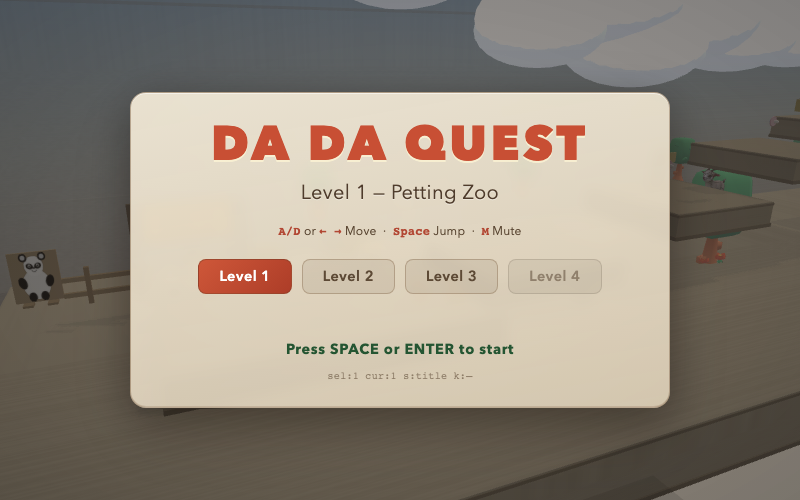
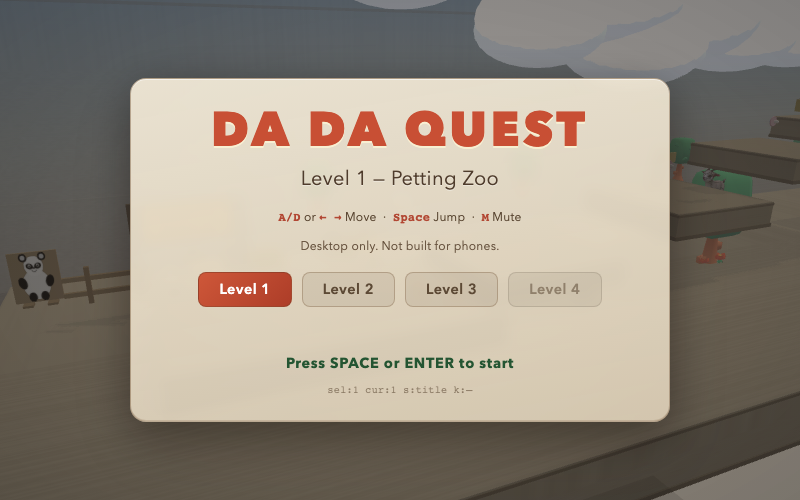
fix: simplify level 2 final stair and add desktop menu note

diff --git a/src/web3d/world/buildWorld2.js b/src/web3d/world/buildWorld2.js
@@ -1040,7 +1040,7 @@ function createPianoVisual(scene, name, { x, y, z = 0, shadowGen }) {
 // ── Main Level 2 world builder ────────────────────────────────────
 
 export function buildWorld2(scene, options = {}) {
-  const { animateGoal = true } = options;
+  const { animateGoal = true, debugMode = false } = options;
   // Scene
   scene.clearColor = new BABYLON.Color4(0.84, 0.86, 0.90, 1.0);
   scene.ambientColor = new BABYLON.Color3(0.34, 0.33, 0.37);
@@ -1077,6 +1077,43 @@ export function buildWorld2(scene, options = {}) {
   shadowGen.bias = 0.0006;
   shadowGen.normalBias = 0.02;
   shadowGen.setDarkness(0.36);
+
+  function createDebugWireBox(name, { x, y, z, w, h, d, color }) {
+    const mesh = BABYLON.MeshBuilder.CreateBox(name, {
+      width: w,
+      height: h,
+      depth: d,
+    }, scene);
+    mesh.position.set(x, y, z);
+    const mat = new BABYLON.StandardMaterial(`${name}_mat`, scene);
+    mat.wireframe = true;
+    mat.disableLighting = true;
+    mat.emissiveColor = color;
+    mat.alpha = 0.88;
+    mat.backFaceCulling = false;
+    mesh.material = mat;
+    tagLevel2Decor(mesh);
+    setRenderingGroup(mesh, 4);
+    return mesh;
+  }
+
+  function createDebugPickupSphere(name, { x, y, z, radius, color }) {
+    const mesh = BABYLON.MeshBuilder.CreateSphere(name, {
+      diameter: radius * 2,
+      segments: 14,
+    }, scene);
+    mesh.position.set(x, y, z);
+    const mat = new BABYLON.StandardMaterial(`${name}_mat`, scene);
+    mat.wireframe = true;
+    mat.disableLighting = true;
+    mat.emissiveColor = color;
+    mat.alpha = 0.82;
+    mat.backFaceCulling = false;
+    mesh.material = mat;
+    tagLevel2Decor(mesh);
+    setRenderingGroup(mesh, 4);
+    return mesh;
+  }
 
   // === GROUND ===
   const groundDef = LEVEL2.ground;
@@ -1180,18 +1217,30 @@ export function buildWorld2(scene, options = {}) {
 
   // === COINS ===
   const coins = [];
+  let lastCrumbleCoin = null;
+  const lastCrumbleDef = (LEVEL2.crumbles || [])[LEVEL2.crumbles.length - 1] || null;
   for (let i = 0; i < LEVEL2.coins.length; i++) {
     const c = LEVEL2.coins[i];
     const node = createCoin(scene, `L2_coin2_${i}`, { x: c.x, y: c.y, z: LANE_Z });
     node.position.z = LANE_Z;
     prefixLevel2Gameplay(node);
     setRenderingGroup(node, 3);
-    coins.push({
+    const radius = lastCrumbleDef && Math.abs(c.x - lastCrumbleDef.x) <= 0.45 && c.y < 9.4
+      ? 0.56
+      : 0.45;
+    const coinState = {
+      index: i,
       position: new BABYLON.Vector3(c.x, c.y, LANE_Z),
-      radius: 0.45,
+      radius,
       node,
       collected: false,
+    };
+    coins.push({
+      ...coinState,
     });
+    if (lastCrumbleDef && Math.abs(c.x - lastCrumbleDef.x) <= 0.45 && c.y < 9.4) {
+      lastCrumbleCoin = coinState;
+    }
   }
 
   // === HAZARDS ===
@@ -1276,6 +1325,7 @@ export function buildWorld2(scene, options = {}) {
 
   // === CRUMBLES ===
   const crumbles = [];
+  let lastCrumbleState = null;
   for (let i = 0; i < (LEVEL2.crumbles || []).length; i++) {
     const cr = LEVEL2.crumbles[i];
     const { root: crRoot, colliderMesh: crCol } = createCrumblePlatform(scene, `L2_${cr.name}`, {
@@ -1293,7 +1343,8 @@ export function buildWorld2(scene, options = {}) {
       y: cr.y - 1.22,
       z: -1.12,
     });
-    crumbles.push({
+    const crumbleState = {
+      name: cr.name,
       root: crRoot,
       colliderMesh: crCol,
       x: cr.x, y: cr.y, z: LANE_Z,
@@ -1301,7 +1352,42 @@ export function buildWorld2(scene, options = {}) {
       portalRoot,
       portalReset: true,
       portalResetY: cr.y - 0.72,
+    };
+    crumbles.push(crumbleState);
+    if (i === (LEVEL2.crumbles.length - 1)) {
+      lastCrumbleState = crumbleState;
+    }
+  }
+
+  if (debugMode && lastCrumbleState) {
+    const topY = lastCrumbleState.y + (lastCrumbleState.h * 0.5);
+    createDebugWireBox('L2_debug_lastCrumbleCollider', {
+      x: lastCrumbleState.x,
+      y: lastCrumbleState.y,
+      z: LANE_Z,
+      w: lastCrumbleState.w,
+      h: LEVEL2.crumbles[LEVEL2.crumbles.length - 1].h,
+      d: LEVEL2.crumbles[LEVEL2.crumbles.length - 1].d,
+      color: new BABYLON.Color3(0.20, 0.95, 1.0),
     });
+    createDebugWireBox('L2_debug_lastCrumbleTrigger', {
+      x: lastCrumbleState.x,
+      y: topY + 0.025,
+      z: LANE_Z,
+      w: lastCrumbleState.w,
+      h: 0.12,
+      d: LEVEL2.crumbles[LEVEL2.crumbles.length - 1].d,
+      color: new BABYLON.Color3(1.0, 0.45, 0.95),
+    });
+    if (lastCrumbleCoin) {
+      createDebugPickupSphere('L2_debug_lastCrumbleCoinRadius', {
+        x: lastCrumbleCoin.position.x,
+        y: lastCrumbleCoin.position.y,
+        z: lastCrumbleCoin.position.z,
+        radius: lastCrumbleCoin.radius,
+        color: new BABYLON.Color3(1.0, 0.85, 0.25),
+      });
+    }
   }
 
   // === DECORATIVE BACKDROP / ROOM ZONES ===
@@ -1988,6 +2074,37 @@ export function buildWorld2(scene, options = {}) {
           z: platform.colliderMesh.position.z,
           visible: platform.visible,
         })),
+      };
+    },
+    getLastCrumbleState() {
+      if (!lastCrumbleState) return null;
+      const ext = lastCrumbleState.colliderMesh.getBoundingInfo().boundingBox.extendSize;
+      const topY = lastCrumbleState.colliderMesh.position.y + ext.y;
+      return {
+        name: lastCrumbleState.name,
+        x: lastCrumbleState.colliderMesh.position.x,
+        y: lastCrumbleState.colliderMesh.position.y,
+        z: lastCrumbleState.colliderMesh.position.z,
+        topY,
+        bounds: {
+          minX: lastCrumbleState.colliderMesh.position.x - ext.x,
+          maxX: lastCrumbleState.colliderMesh.position.x + ext.x,
+          minY: lastCrumbleState.colliderMesh.position.y - ext.y,
+          maxY: lastCrumbleState.colliderMesh.position.y + ext.y,
+          minZ: lastCrumbleState.colliderMesh.position.z - ext.z,
+          maxZ: lastCrumbleState.colliderMesh.position.z + ext.z,
+        },
+        triggerBand: {
+          minY: topY - 0.05,
+          maxY: topY + 0.07,
+        },
+        coin: lastCrumbleCoin ? {
+          index: lastCrumbleCoin.index,
+          x: lastCrumbleCoin.position.x,
+          y: lastCrumbleCoin.position.y,
+          z: lastCrumbleCoin.position.z,
+          radius: lastCrumbleCoin.radius,
+        } : null,
       };
     },
     // Expose anchor nodes for GLB loading in boot.js

diff --git a/src/web3d/world/level2.js b/src/web3d/world/level2.js
@@ -63,8 +63,9 @@ const BASE_LEVEL2 = {
     { name: 'platKitchen',  x:   6.5, y: 0.40,  w:  7.0, h: 0.80, d: 4.0 },  // surface 0.80
     { name: 'platPiano',    x:  11.0, y: 3.00,  w:  3.2, h: 0.70, d: 4.0 },  // surface 3.35
     { name: 'platLanding',  x:  18.0, y: 4.00,  w:  5.0, h: 0.80, d: 4.0 },  // surface 4.40  (CP2)
-    // Section C — Loft stairs (longer + steeper; every step is crumble)
-    { name: 'platLoft',     x:  35.0, y: 9.10,  w:  4.4, h: 0.80, d: 4.2 },  // surface 9.50
+    // Section C — Loft stairs (final stair is solid to stabilize the loft landing)
+    { name: 'platStairFinal', x: 33.4, y: 8.45, w: 2.0, h: 0.65, d: 4.0 },
+    { name: 'platLoft',     x:  36.3, y: 9.10,  w:  3.6, h: 0.80, d: 4.2 },  // surface 9.50; shifted to stop overlapping the final crumble
     { name: 'platRoof',     x:  38.8, y: 9.75,  w:  6.2, h: 0.80, d: 5.0 },  // surface 10.15 → goal
   ],
 
@@ -126,11 +127,6 @@ const BASE_LEVEL2 = {
       x: 30.9, y: 7.75, z: L,
       w: 2.0, h: 0.65, d: 4.0,
     },
-    {
-      name: 'crumbleStair6',
-      x: 33.4, y: 8.45, z: L,
-      w: 2.0, h: 0.65, d: 4.0,
-    },
   ],
 
   coins: [
@@ -144,7 +140,7 @@ const BASE_LEVEL2 = {
     { x:  18.0, y: 5.20, z: L },
     { x:  16.3, y: 1.34, z: L },
     { x:  18.9, y: 2.48, z: L },
-    { x:  33.4, y: 9.10, z: L },
+    { x:  35.25, y: 9.86, z: L },
     { x:  36.2, y: 10.20, z: L },
   ],
 

diff --git a/src/web3d/ui/ui.js b/src/web3d/ui/ui.js
@@ -80,6 +80,13 @@ const CSS = `
   font-family: monospace;
   font-weight: 700;
 }
+.dada-device-note {
+  margin-top: 10px;
+  font-size: 12px;
+  line-height: 1.4;
+  color: #6a5642;
+  letter-spacing: 0.02em;
+}
 .dada-loading-wrap {
   margin-top: 16px;
   display: none;
@@ -665,6 +672,7 @@ export function createUI(uiRoot, options = {}) {
         <span>Space</span> Jump &nbsp;\u00b7&nbsp;
         <span>M</span> Mute
       </div>
+      <div class="dada-device-note">Desktop only. Not built for phones.</div>
       <div class="dada-level-row">
         <button class="dada-level-btn${_selectedLevel === 1 ? ' active' : ''}" id="levelBtn1" tabindex="-1">Level 1</button>
         <button class="dada-level-btn${_selectedLevel === 2 ? ' active' : ''}" id="levelBtn2" tabindex="-1">Level 2</button>
@@ -802,6 +810,7 @@ export function createUI(uiRoot, options = {}) {
       <div class="dada-controls">
         Press <span>Esc</span> to resume, or switch levels below.
       </div>
+      <div class="dada-device-note">Desktop only. Not built for phones.</div>
       <div class="dada-level-row">
         <a class="dada-level-btn${_selectedLevel === 1 ? ' active' : ''}" id="menuLevelBtn1" href="${window.location.pathname}">Level 1</a>
         <a class="dada-level-btn${_selectedLevel === 2 ? ' active' : ''}" id="menuLevelBtn2" href="${window.location.pathname}?level=2">Level 2</a>

diff --git a/src/web3d/boot.js b/src/web3d/boot.js
@@ -936,7 +936,7 @@ export async function boot(options = {}) {
       : levelId === 3
       ? buildWorld3(scene, { animateGoal: !shotMode })
       : levelId === 2
-        ? buildWorld2(scene, { animateGoal: !shotMode })
+        ? buildWorld2(scene, { animateGoal: !shotMode, debugMode })
         : shotMode
           ? withPatchedRandom(createSeededRandom(1337), () => buildWorld(scene, {
             random: createSeededRandom(7331),
@@ -2971,6 +2971,17 @@ export async function boot(options = {}) {
       return progression;
     };
     window.__DADA_DEBUG__.level2Secret = () => world.level2?.getSecretState?.() ?? null;
+    window.__DADA_DEBUG__.level2LastCrumble = () => {
+      const base = world.level2?.getLastCrumbleState?.() ?? null;
+      if (!base) return null;
+      const runtime = crumbleStates.find((cs) => cs.cr?.name === base.name);
+      return {
+        ...base,
+        state: runtime?.state ?? null,
+        timer: runtime ? Number(runtime.timer.toFixed(3)) : null,
+        playerTriggered: runtime?.playerTriggered ?? false,
+      };
+    };
   }
 
   // Single unconditional keydown handler on window — fires regardless of which

diff --git a/tests/runtime-levels.spec.js b/tests/runtime-levels.spec.js
@@ -334,3 +334,20 @@ test('runtime: level 2 secret path debug data exposes floor reset pad and two se
   expect(Array.isArray(secret.vanishPlatforms)).toBe(true);
   expect(secret.vanishPlatforms).toHaveLength(3);
 });
+
+test('runtime: level 2 final stair is solid and the replacement loft coin exists', async ({ page }) => {
+  test.setTimeout(120_000);
+  await gotoDebugLevel(page, 2);
+  await startDebugLevel(page, 2);
+
+  const crumble = await page.evaluate(() => window.__DADA_DEBUG__?.level2LastCrumble?.() ?? null);
+  expect(crumble).not.toBeNull();
+  expect(crumble.name).toBe('crumbleStair5');
+
+  const landingCoin = await page.evaluate(() => {
+    const coins = window.__DADA_DEBUG__?.collectibles?.() ?? [];
+    return coins.find((coin) => Math.abs(coin.x - 35.25) < 0.2 && Math.abs(coin.y - 9.86) < 0.2) ?? null;
+  });
+  expect(landingCoin).not.toBeNull();
+  expect(typeof landingCoin.index).toBe('number');
+});

diff --git a/src/web3d/world/buildWorld3.js b/src/web3d/world/buildWorld3.js
@@ -1166,7 +1166,7 @@ export function buildWorld3(scene, options = {}) {
 
   const porchTopY = getPlatformTopY('grandmaPorch');
   const grandmaHazard = createGrandma(scene, {
-    x: 73.9,
+    x: 75.0,
     y: porchTopY,
     z: LANE_Z,
     shadowGen,
@@ -1176,7 +1176,7 @@ export function buildWorld3(scene, options = {}) {
   setRenderingGroup(grandmaHazard.root, 3);
   const grandmaPatrol = {
     root: grandmaHazard.root,
-    x: 73.9,
+    x: 75.0,
     minZ: -1.18,
     maxZ: 1.22,
     speed: 0.82,
@@ -1464,7 +1464,7 @@ export function buildWorld3(scene, options = {}) {
         dog.minY = dog.lane.y - dog.height * 0.5;
         dog.maxY = dog.lane.y + dog.height * 0.5;
       }
-      grandmaPatrol.root.position.x = 73.9;
+      grandmaPatrol.root.position.x = 75.0;
       grandmaPatrol.root.position.y = getPlatformTopY('grandmaPorch');
       grandmaPatrol.root.position.z = 0.86;
       grandmaPatrol.dir = 1;

diff --git a/tests/ui.spec.js b/tests/ui.spec.js
@@ -80,10 +80,7 @@ test('ui: escape menu opens during gameplay and can switch levels', async ({ pag
       && !overlay.classList.contains('hidden');
   }, { timeout: 5_000 });
 
-  await Promise.all([
-    page.waitForURL((url) => !url.searchParams.has('level'), { timeout: 30_000 }),
-    page.click('#menuLevelBtn1'),
-  ]);
+  await page.click('#menuLevelBtn1');
   await page.waitForFunction(() => window.__DADA_DEBUG__?.sceneKey === 'TitleScene', { timeout: 20_000 });
   await expect(page.locator('#titleSub')).toContainText('Level 1');
 });
